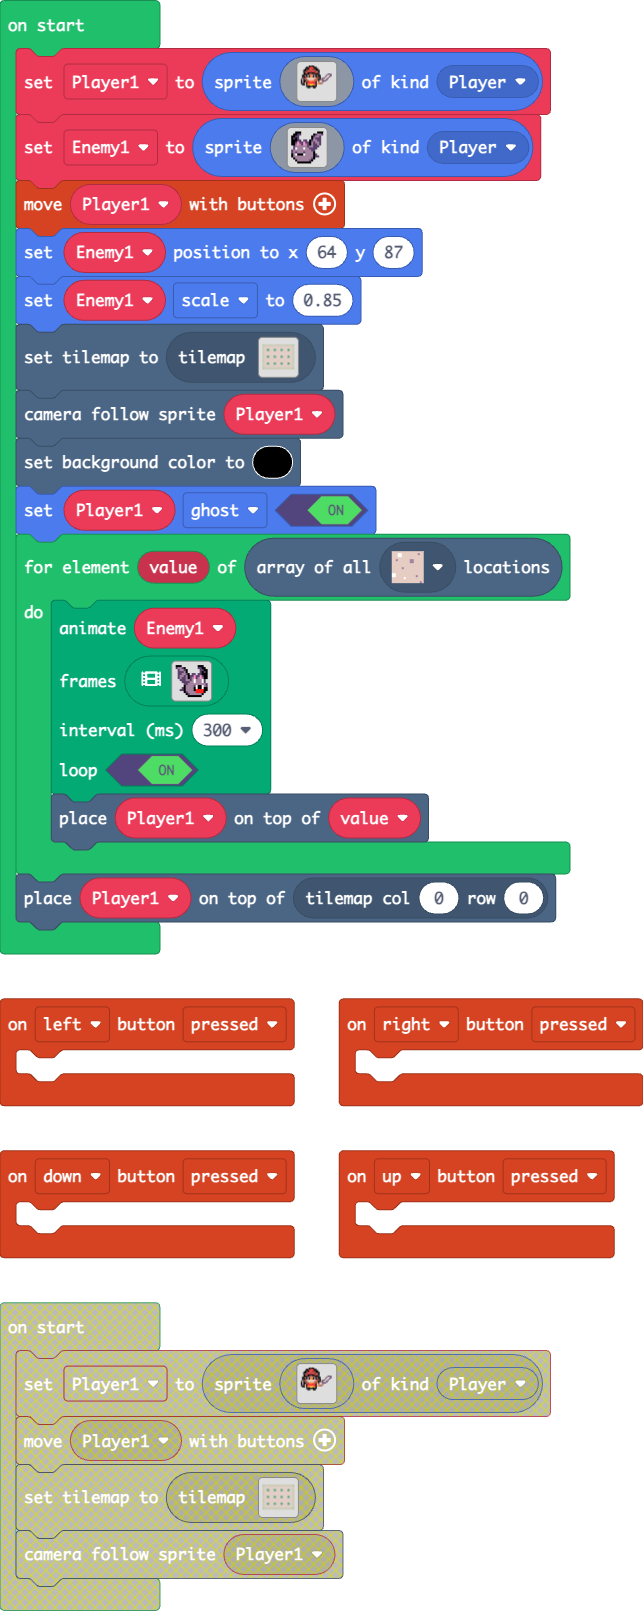
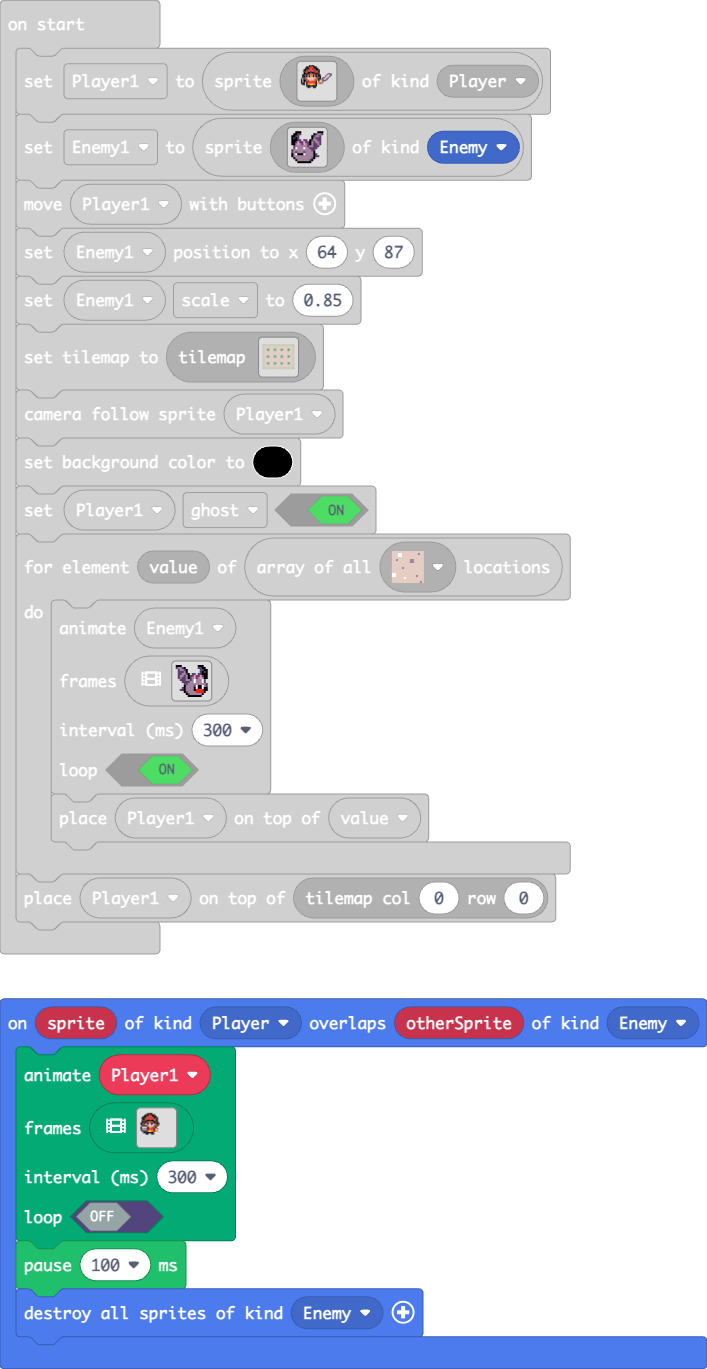
Update main.blocks, main.ts, tilemap.g.jres, tilemap.g.ts

diff --git a/main.ts b/main.ts
@@ -10,7 +10,118 @@ controller.right.onEvent(ControllerButtonEvent.Pressed, function () {
 controller.down.onEvent(ControllerButtonEvent.Pressed, function () {
 	
 })
-let Player1 = sprites.create(img`
+sprites.onOverlap(SpriteKind.Player, SpriteKind.Enemy, function (sprite, otherSprite) {
+    animation.runImageAnimation(
+    Player1,
+    [img`
+        ........................
+        .....ffff...............
+        ...fff22fff.............
+        ..fff2222fff............
+        .fffeeeeeefff...........
+        .ffe222222eef...........
+        .fe2ffffff2ef...........
+        .ffffeeeeffff...........
+        ffefbf44fbfeff..........
+        fee41fddf14eef..........
+        .ffffdddddeef...........
+        fddddf444eef............
+        fbbbbf2222f4e...........
+        fbbbbf2222fd4...........
+        .fccf45544f44...........
+        ..ffffffff..............
+        ....ff..ff..............
+        ........................
+        ........................
+        ........................
+        ........................
+        ........................
+        ........................
+        ........................
+        `,img`
+        ........................
+        ......ffff..............
+        ....fff22fff............
+        ...fff2222fff...........
+        ..fffeeeeeefff..........
+        ..ffe222222eef..........
+        ..fe2ffffff2ef..........
+        ..ffffeeeeffff..........
+        .ffefbf44fbfeff.........
+        .fee41fddf14eef.........
+        fdfeeddddd4eff..........
+        fbffee444edd4e..........
+        fbf4f2222edde...........
+        fcf.f22cccee............
+        .ff.f44cdc4f............
+        ....fffddcff............
+        .....fddcff.............
+        ....cddc................
+        ....cdc.................
+        ....cc..................
+        ........................
+        ........................
+        ........................
+        ........................
+        `,img`
+        ........................
+        ........................
+        .......ff...............
+        .....ff22ff.............
+        ...fff2222fff...........
+        ..fff222222fff..........
+        ..fff222222fff..........
+        ..feeeeeeeeeeff.........
+        .ffe22222222eff.........
+        .fffffeeeefffff.........
+        fdfefbf44fbfeff.........
+        fbfe41fddf14ef..........
+        fbffe4dddd4efe..........
+        fcfef22222f4e...........
+        .ff4f44554f4e...........
+        ....ffffffdde...........
+        .....ffffedde...........
+        ..........ee............
+        .........ccc............
+        ........cc1cc...........
+        .........c1c............
+        .........c1c............
+        .........c1c............
+        .........c1c............
+        `,img`
+        ......ffff..............
+        ....fff22fff............
+        ...fff2222fff...........
+        ..fffeeeeeefff..........
+        ..ffe222222eef..........
+        ..fe2ffffff2ef..........
+        ..ffffeeeeffff......ccc.
+        .ffefbf44fbfeff....cddc.
+        .ffefbf44fbfeff...cddc..
+        .fee4dddddd4eef.ccddc...
+        fdfeeddddd4eeffecddc....
+        fbffee4444ee4fddccc.....
+        fbf4f222222f1edde.......
+        fcf.f222222f44ee........
+        .ff.f445544f............
+        ....ffffffff............
+        .....ff..ff.............
+        ........................
+        ........................
+        ........................
+        ........................
+        ........................
+        ........................
+        ........................
+        `],
+    300,
+    false
+    )
+    pause(100)
+    sprites.destroyAllSpritesOfKind(SpriteKind.Enemy)
+})
+let Player1: Sprite = null
+Player1 = sprites.create(img`
     ......ffff..............
     ....fff22fff............
     ...fff2222fff...........
@@ -53,7 +164,7 @@ let Enemy1 = sprites.create(img`
     . f b b b b b b b b c f . . . . 
     . . f b b b b b b c f . . . . . 
     . . . f f f f f f f . . . . . . 
-    `, SpriteKind.Player)
+    `, SpriteKind.Enemy)
 controller.moveSprite(Player1)
 Enemy1.setPosition(64, 87)
 Enemy1.scale = 0.85

diff --git a/tilemap.g.ts b/tilemap.g.ts
@@ -38,6 +38,44 @@ namespace myTiles {
 . . . . . . . . . . . . . . 
 . . . . . . . . . . . . . . 
 `, [myTiles.transparency16,sprites.castle.tilePath1,sprites.castle.tilePath5,sprites.castle.tilePath4,sprites.castle.tilePath2,sprites.builtin.forestTiles0,sprites.castle.tilePath7,sprites.castle.tilePath8,sprites.castle.tilePath9,sprites.castle.tilePath6,sprites.castle.tilePath3], TileScale.Sixteen);
+            case "level3":
+            case "level3":return tiles.createTilemap(hex`1000100000000000000000000000000000000000000000000000000000000000000000000000000000000000000000000000000000000000000000000000000000000000000000000000000000000000000000000000000000000000000000000000000000000000000000000000000000000000000000000000000000000000000000000000000000000000000000000000000000000000000000000000000000000000000000000000000000000000000000000000000000000000000000000000000000000000000000000000000000000000000000000000000000000000000000000000000000000000000000000000000000000000000000000000000000000000`, img`
+. . . . . . . . . . . . . . . . 
+. . . . . . . . . . . . . . . . 
+. . . . . . . . . . . . . . . . 
+. . . . . . . . . . . . . . . . 
+. . . . . . . . . . . . . . . . 
+. . . . . . . . . . . . . . . . 
+. . . . . . . . . . . . . . . . 
+. . . . . . . . . . . . . . . . 
+. . . . . . . . . . . . . . . . 
+. . . . . . . . . . . . . . . . 
+. . . . . . . . . . . . . . . . 
+. . . . . . . . . . . . . . . . 
+. . . . . . . . . . . . . . . . 
+. . . . . . . . . . . . . . . . 
+. . . . . . . . . . . . . . . . 
+. . . . . . . . . . . . . . . . 
+`, [myTiles.transparency16], TileScale.Sixteen);
+            case "level4":
+            case "level4":return tiles.createTilemap(hex`1000100000000000000000000000000000000000000000000000000000000000000000000000000000000000000000000000000000000000000000000000000000000000000000000000000000000000000000000000000000000000000000000000000000000000000000000000000000000000000000000000000000000000000000000000000000000000000000000000000000000000000000000000000000000000000000000000000000000000000000000000000000000000000000000000000000000000000000000000000000000000000000000000000000000000000000000000000000000000000000000000000000000000000000000000000000000000`, img`
+. . . . . . . . . . . . . . . . 
+. . . . . . . . . . . . . . . . 
+. . . . . . . . . . . . . . . . 
+. . . . . . . . . . . . . . . . 
+. . . . . . . . . . . . . . . . 
+. . . . . . . . . . . . . . . . 
+. . . . . . . . . . . . . . . . 
+. . . . . . . . . . . . . . . . 
+. . . . . . . . . . . . . . . . 
+. . . . . . . . . . . . . . . . 
+. . . . . . . . . . . . . . . . 
+. . . . . . . . . . . . . . . . 
+. . . . . . . . . . . . . . . . 
+. . . . . . . . . . . . . . . . 
+. . . . . . . . . . . . . . . . 
+. . . . . . . . . . . . . . . . 
+`, [myTiles.transparency16], TileScale.Sixteen);
         }
         return null;
     })
